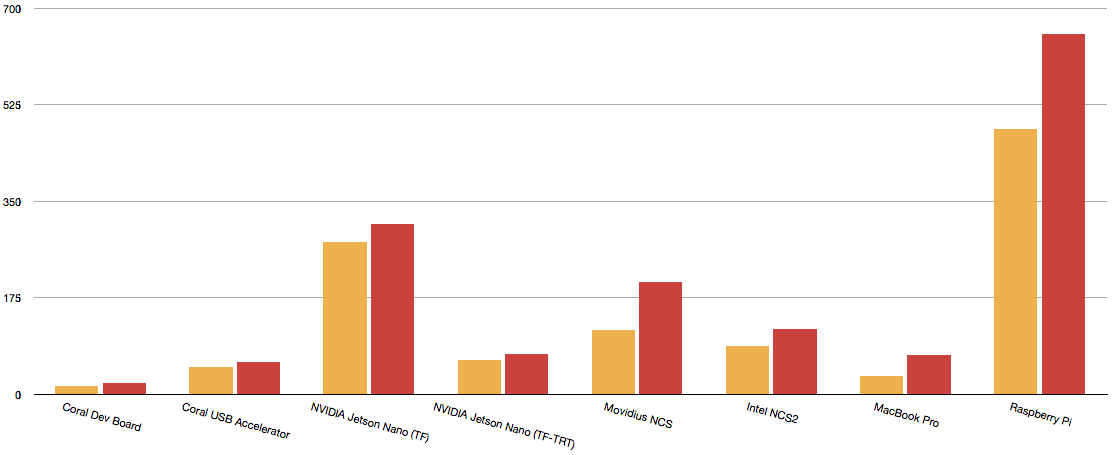
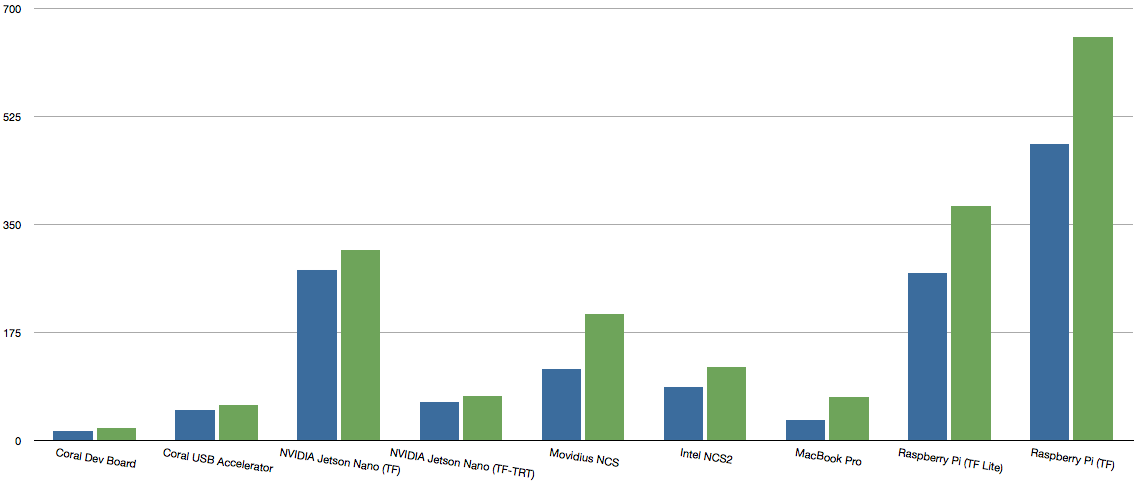
refined ai_ml article

Changed region(s): [[0.0, 0.0615, 1.0, 0.9846], [0.0, 0.0, 1.0, 0.0308], [0.0, 0.6462, 0.0305, 0.7077]]

diff --git a/pages/ai/ai_ml.md b/pages/ai/ai_ml.md
@@ -116,11 +116,11 @@ Follow the instructions below to navigate object detection repo:
 The inference speed is governed by image size, model, hardware and 
 framework but perhaps to a lesser extend.
 
-### Hardware benchmark
+### Hardwares benchmark & Framework (Tensorflow vs TF-lite) benchmark
 
-Alasdair Allan performed benchmarking for the following hardwares while keeping
-the model and framework the same around 
-[May 2019](https://medium.com/@aallan/benchmarking-edge-computing-ce3f13942245):
+Alasdair Allan performed benchmarking for the following hardwares and 
+published the results on the must-read article, 
+[Benchmarking Edge Computing, May 2019](https://medium.com/@aallan/benchmarking-edge-computing-ce3f13942245):
 
 - **Coral Dev Board** (NXP i.MX 8M processor, Google Edge TPU, 
   [Setup](https://medium.com/@aallan/hands-on-with-the-coral-dev-board-adbcc317b6af),
@@ -133,13 +133,17 @@ the model and framework the same around
 - **Coral USB Accelerator with a Raspberry Pi** (
   [Setup](https://medium.com/@aallan/hands-on-with-the-coral-usb-accelerator-a37fcb323553)
   [Specs](https://coral.withgoogle.com/docs/))
-- **The original Movidus Neural Compute Stick with a Raspberry Pi** () 
-- **Second generation Intel Neural Compute Stick 2 with a Raspberry Pi** ()
+- **The original Movidus Neural Compute Stick with a Raspberry Pi** (
+  [Setup](https://blog.hackster.io/getting-started-with-the-intel-neural-compute-stick-2-and-the-raspberry-pi-6904ccfe963),
+  [Original article](https://blog.hackster.io/deep-learning-on-a-usb-stick-29c117cf93e2)) 
+- **Second generation Intel Neural Compute Stick 2 with a Raspberry Pi** (
+  [Setup](https://blog.hackster.io/getting-started-with-the-intel-neural-compute-stick-2-and-the-raspberry-pi-6904ccfe963))
 - **Apple MacBook Pro 2016 model** [Quad-core 2.9 GHz Intel Core i7]
 - **Vanilla Raspberry Pi 3, Model B+** without any acceleration
 
-He compared two quite similar models pretrained by Google, both models use
-Tensorflow framework: 
+The setup was to keep the model and framework the same as much as possible for 
+each hardware. He compared two quite similar models pretrained by Google, 
+both models use Tensorflow framework: 
 [Mobilenet v2 SSD trained with COCO dataset](http://download.tensorflow.org/models/object_detection/ssd_mobilenet_v2_coco_2018_03_29.tar.gz) 
 and 
 [Mobilenet v1 SSD 0.75 depth trained also with COCO dataset](http://download.tensorflow.org/models/object_detection/ssd_mobilenet_v1_0.75_depth_300x300_coco14_sync_2018_07_03.tar.gz).
@@ -149,19 +153,26 @@ objects, a banana and an apple. The image was resized down to 300×300 pixels
 before presenting it to the model, and each model was run 10,000 times before 
 an average inferencing time was taken.
 
+A companion article that compares Tensorflow and Tensorflow-Lite on 
+Raspberry Pi was published later following the hardware benchmarking, 
+[Benchmarking TensorFlow and TensorFlow Lite on the Raspberry Pi](https://blog.hackster.io/benchmarking-tensorflow-and-tensorflow-lite-on-the-raspberry-pi-43f51b796796).
+The combined results are presented here.
+
 {% include image.html file="ai/aa_hw_benchmark_2019-05.png" url="#" 
   caption="Hardware benchmarking: inference time in ms; Source: 
-  <a href='https://medium.com/@aallan/benchmarking-edge-computing-ce3f13942245'>
-  Benchmarking Edge Computing
+  <a href='https://blog.hackster.io/benchmarking-tensorflow-and-tensorflow-lite-on-the-raspberry-pi-43f51b796796'>
+  Benchmarking TensorFlow and TensorFlow Lite on the Raspberry Pi
   </a>" 
   max-width=900 %}
 
 {% include image.html file="ai/aa_hw_benchmark_table_2019-05.png" url="#" 
-  caption="Hardware benchmarking: inference time in ms; Source: 
+  caption="Hardware benchmarking: inference time in ms; Sources: 
   <a href='https://medium.com/@aallan/benchmarking-edge-computing-ce3f13942245'>
   Benchmarking Edge Computing
+  </a> & <a href='https://blog.hackster.io/benchmarking-tensorflow-and-tensorflow-lite-on-the-raspberry-pi-43f51b796796'>
+  Benchmarking TensorFlow and TensorFlow Lite on the Raspberry Pi
   </a>" 
-  max-width=700 %}
+  max-width=900 %}
 
 The inference time [reported by Google](https://github.com/tensorflow/models/blob/master/research/object_detection/g3doc/detection_model_zoo.md#coco-trained-models)
 is 31 ms and 26 ms, respectively, tested under the following conditions: 
